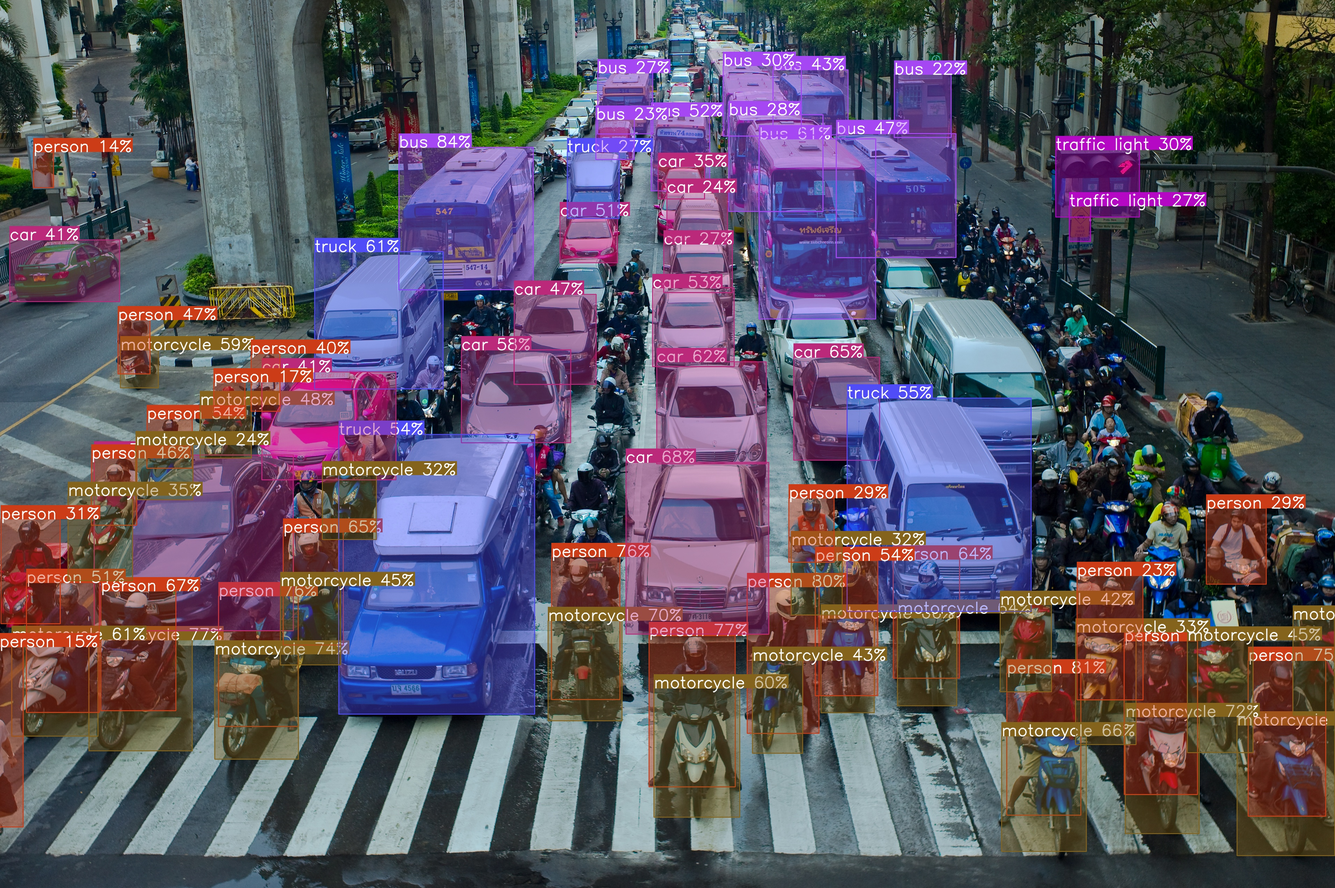
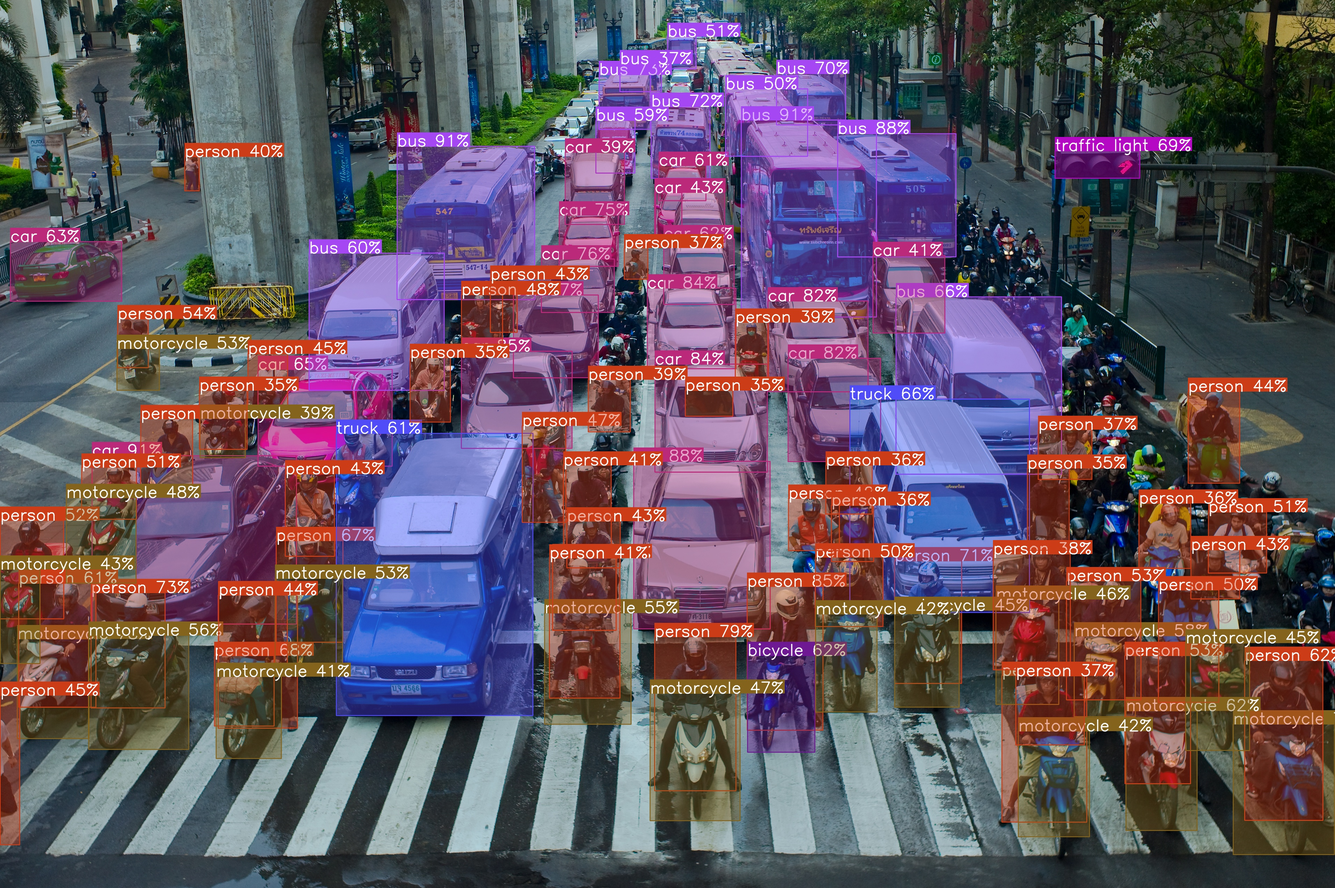
Update image detection model

diff --git a/image_object_detection.py b/image_object_detection.py
@@ -4,8 +4,8 @@ from imread_from_url import imread_from_url
 from YOLOv6 import YOLOv6
 
 # Initialize YOLOv6 object detector
-model_path = "models/yolov6m_base_bs1.onnx"
-yolov6_detector = YOLOv6(model_path, conf_thres=0.3, iou_thres=0.5)
+model_path = "models/yolov6l_base_bs1.onnx"
+yolov6_detector = YOLOv6(model_path, conf_thres=0.35, iou_thres=0.5)
 
 # Read image
 img_url = "https://upload.wikimedia.org/wikipedia/commons/a/af/Motorcyclists_lane_splitting_in_Bangkok%2C_Thailand.jpg"
